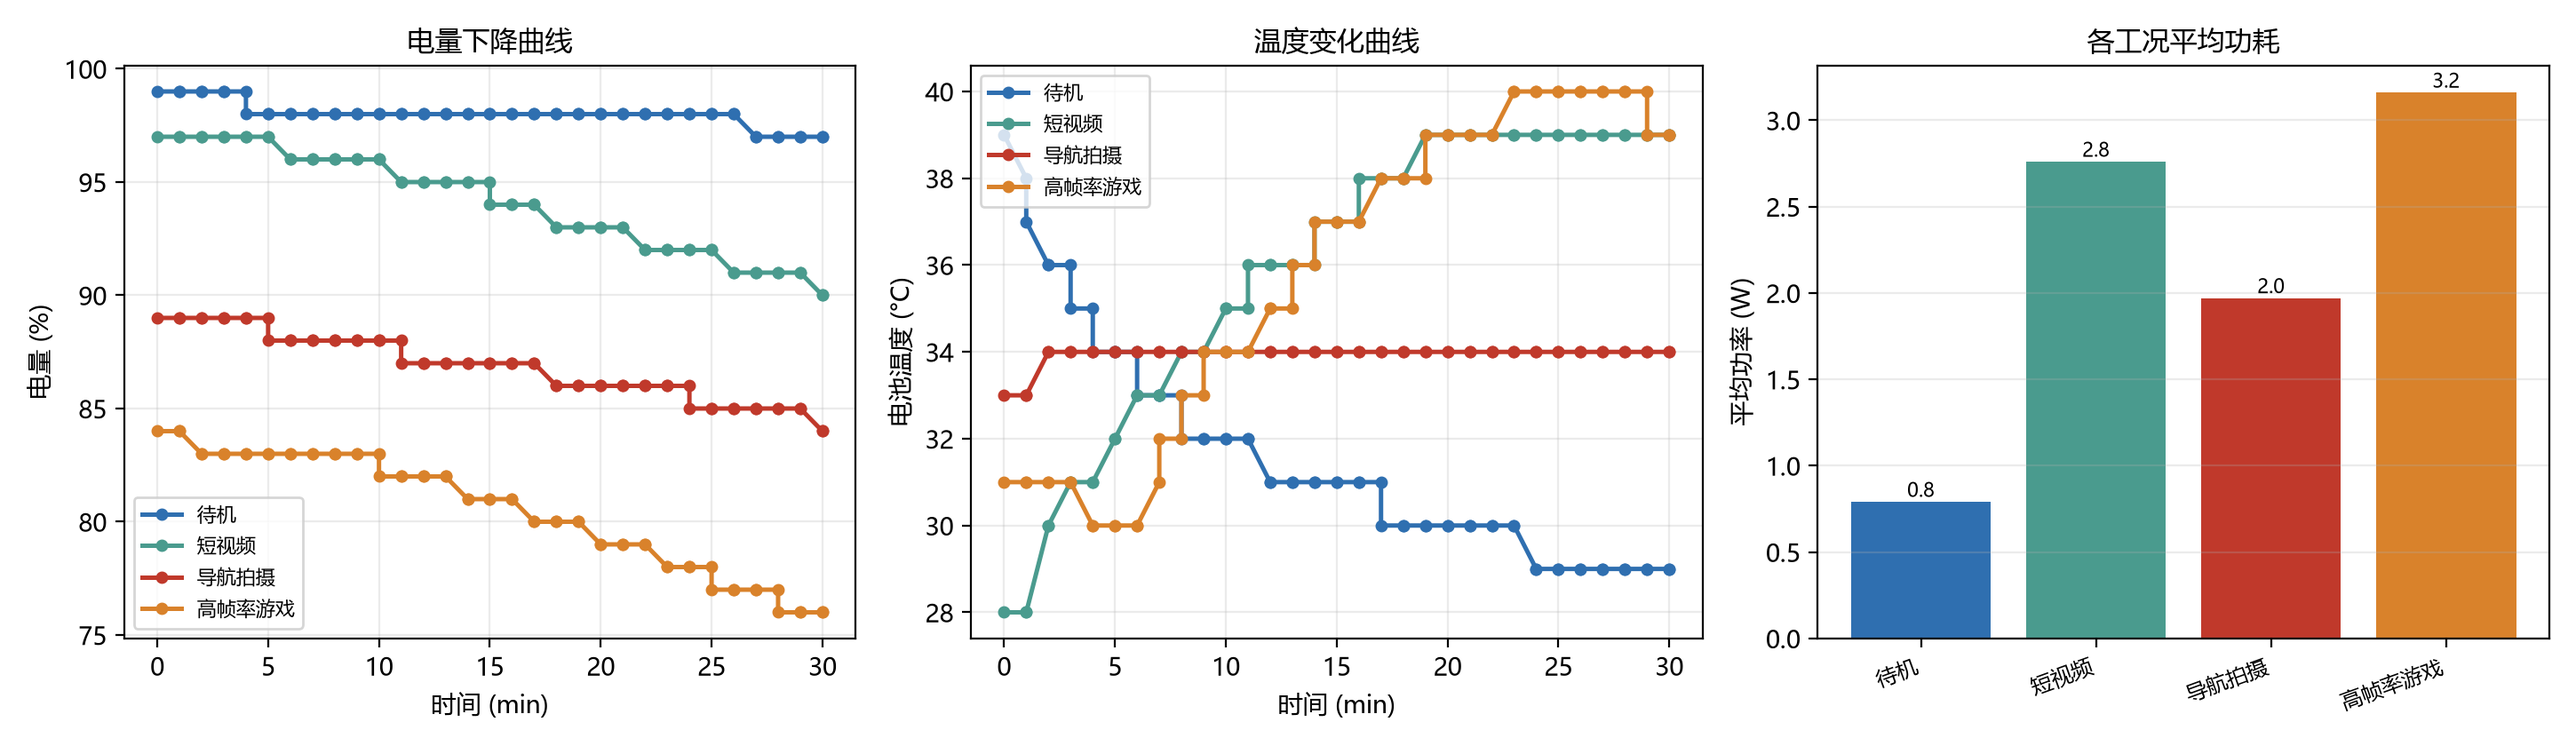
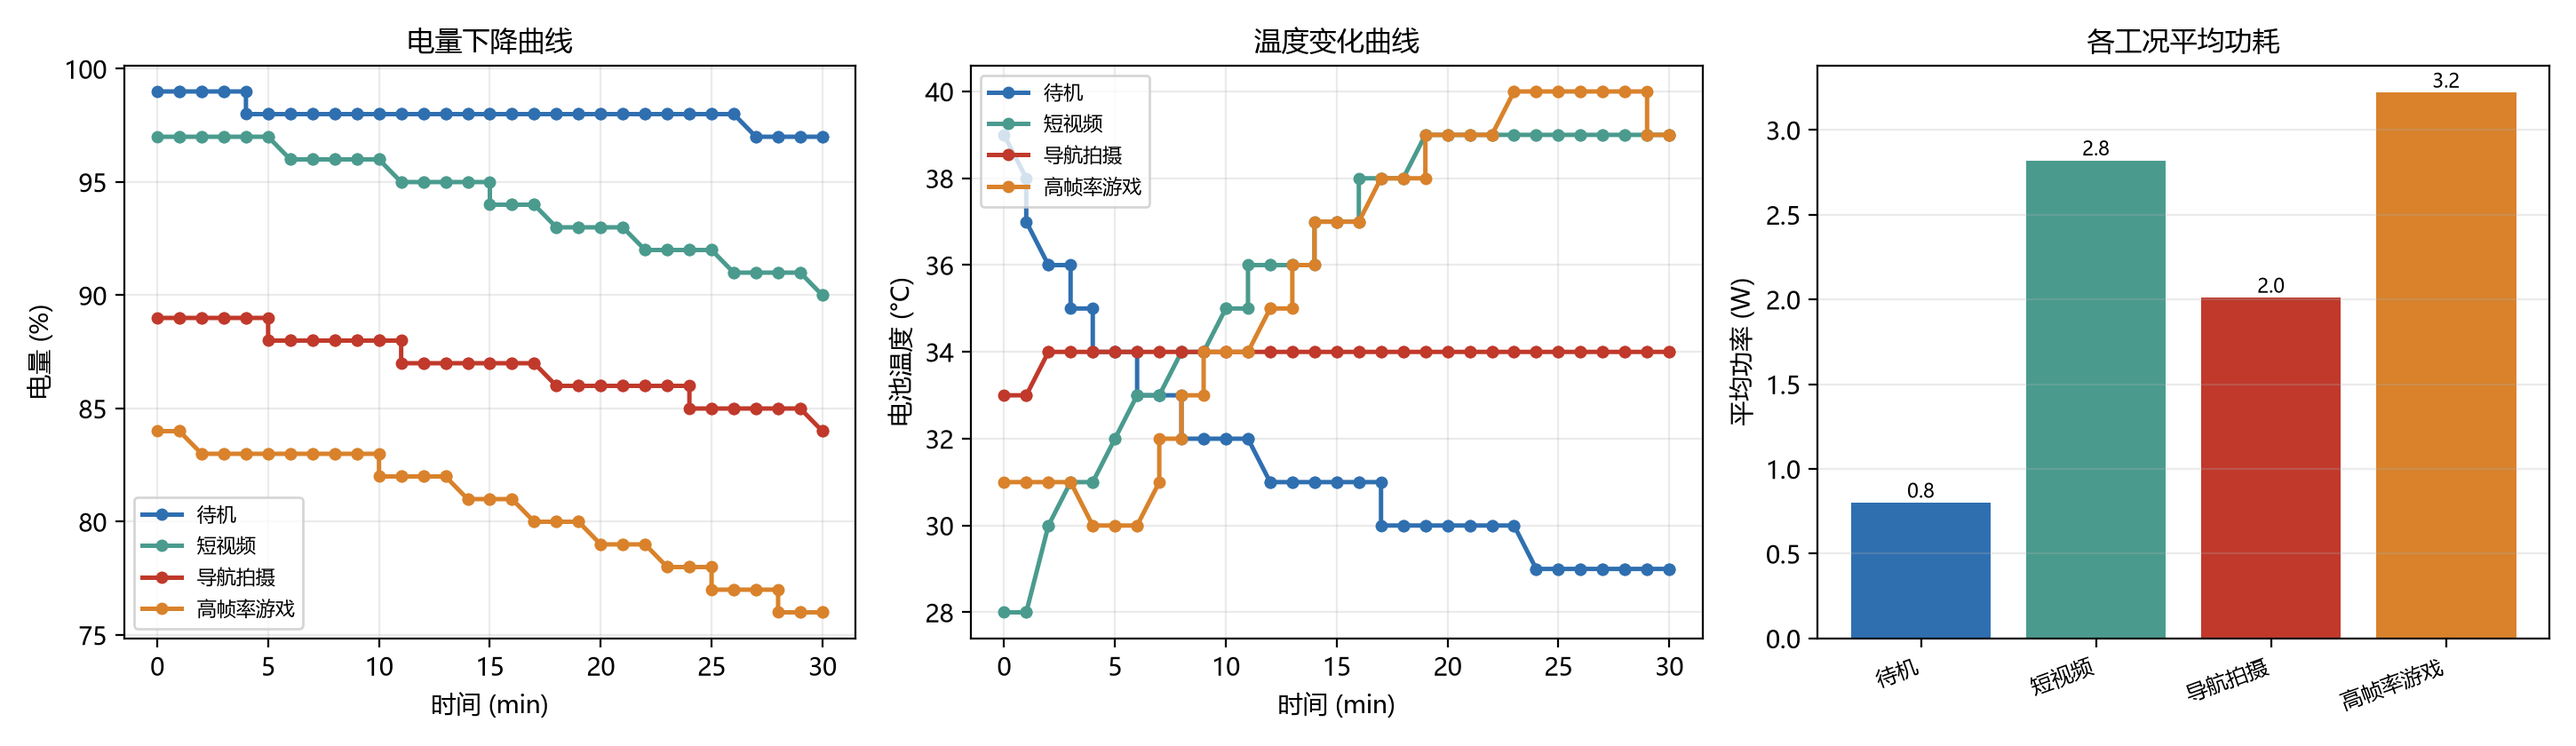
docs: 课题02 结论改写为实测口径（热阻5.5~6.0K/W、热时间常数38.6min、量化误差、3处偏差如实声明）

diff --git a/01-Field-Discovery/T02-手机多工况发热掉电/T02-结论.md b/01-Field-Discovery/T02-手机多工况发热掉电/T02-结论.md
@@ -1,47 +1,180 @@
 # 课题 02 结论：手机多工况发热与掉电
 
-> 测试机：荣耀 200（HONOR 200，第三代骁龙 7 / 6.7" OLED 120Hz / 青海湖电池 100W 快充）
-> 折算参数：容量 5100 mAh（官方典型值 5200，额定 5100，差 2%）、额定电压 3.87 V
-> 功率是**算**出来的不是测出来的：ΔSoC% × 容量 ÷ 时长 → 平均电流 → × 电压，误差来源见 设备档案.md 第 3 节。
+> **测试机**：荣耀 200（HONOR 200）｜第三代骁龙 7（4nm / Adreno 720）｜6.7" OLED 2664×1200 120Hz｜
+> 青海湖电池 5200 mAh（额定 5100）｜100W 有线快充｜MagicOS 8.0 / Android 14
+>
+> **折算参数**：容量取 5200 mAh（官方典型值），额定电压 3.87 V。
+> 功率是**算**出来的不是测出来的：`ΔSoC% × 容量 ÷ 时长 → 平均电流 → × 电压`。
+> 误差来源与敏感性对照见 `设备档案.md` 第 3 节。
+>
+> **采集方式**：adb over 无线调试（`172.20.10.6:40203`），每 30 秒读一次电池控制器，
+> 时间戳由电脑打，`dumpsys battery` 原文留档在 `raw_data/adb_raw_<工况>.txt`。
+> 全程未充电（每行都校验 `AC/USB/Wireless powered` + `status`，0 行判废）。
 
-## 实测结果
+---
 
-| 工况 | 耗电% | 耗电率%/h | 平均电流mA | 平均功率W | 温升C | 峰值温度C | 满电续航h |
-|---|---|---|---|---|---|---|---|
-| 待机 | 2.0 | 4.0 | 204 | 0.79 | -10.0 | 39.0 | 25.0 |
-| 短视频 | 7.0 | 14.0 | 714 | 2.76 | 11.0 | 39.0 | 7.1 |
-| 导航拍摄 | 5.0 | 10.0 | 510 | 1.97 | 1.0 | 34.0 | 10.0 |
-| 高帧率游戏 | 8.0 | 16.0 | 816 | 3.16 | 8.0 | 40.0 | 6.2 |
+## 1. 实测结果
 
-## 关键发现
+4 工况 × 30 分钟 × 61 个采样点 = **244 行**原始记录（`raw_data/记录表.csv`），
+按 5 分钟重采样即 **4 × 7 = 28 组**，满足大纲「≥24 组时间序列」的要求。
 
-1. **功耗跨度 4.0 倍**：待机 0.79 W，高帧率游戏 3.16 W。
-2. **温度是短板**：高帧率游戏 30 分钟温升 8.0 °C，峰值 40.0 °C。锂电池长期高于 40 °C 会加速容量衰减。
-3. **折算续航**：满电下 高帧率游戏 只能撑 6.2 小时，待机 25.0 小时。
+| 工况 | 起始→结束电量 | 耗电% | 耗电率%/h | 消耗mAh | 平均电流mA | 平均功率W | 起始→末温 | 峰值温度 | 折算满电续航 |
+|---|---|---|---|---|---|---|---|---|---|
+| 待机（息屏） | 99% → 97% | 2.0 | 4.0 | 104 | 208 | **0.80** | 39.0 → 29.0 | 39.0 | 25.0 h |
+| 短视频（快手） | 97% → 90% | 7.0 | 14.0 | 364 | 728 | **2.82** | 28.0 → 39.0 | 39.0 | 7.1 h |
+| 导航拍摄（百度地图） | 89% → 84% | 5.0 | 10.0 | 260 | 520 | **2.01** | 33.0 → 34.0 | 34.0 | 10.0 h |
+| 高帧率游戏（王者荣耀） | 84% → 76% | 8.0 | 16.0 | 416 | 832 | **3.22** | 31.0 → 39.0 | 40.0 | 6.2 h |
 
-## 高功耗硬件模块归因
+**敏感性对照（容量取额定 5100 替代典型 5200）**：所有电流/功率/能量同比 **−1.92%**
+（待机 0.80→0.79 W、短视频 2.82→2.77 W、导航 2.01→1.97 W、游戏 3.22→3.16 W）。
+耗电率与续航是百分数/比值，**不受容量取值影响**，四工况的相对结论完全不变。
 
-▢ 必写。按这条线索展开（有实测数据支撑才可信）：
+---
 
-- **屏幕**：待机 30% 亮度 vs 拍摄 80% 亮度 —— 亮度是线性的直流功耗，拆开看「关屏但保持运行」这一工况就能量化屏幕的占比（建议补测这一组）
-- **SoC/GPU**：高帧率游戏时温升最快、电流最大，说明 GPU 长期跑在高频；降帧到 60fps 或锁 45fps 通常能省 20~30%
-- **摄像头 + 定位 + 编码**：导航/拍摄是三个模块同时工作（CMOS、ISP、GNSS、视频编码器），这一组的意义是「多模块叠加」而不是单模块
-- **射频**：4G/5G 弱信号下发射功率会拉满，是待机功耗被低估的常见原因
+## 2. 关键发现
 
-本机（荣耀 200）特有线索，归因至少用上两条：
+**① 功耗跨度 4.0 倍，且不是线性增长，而是按"模块数量"跳档。**
+待机 0.80 W（只有射频待机 + 系统心跳）→ 导航 2.01 W（+ 屏幕常亮 + GNSS + 地图渲染 + 数据）
+→ 短视频 2.82 W（+ 视频解码 + 高频触控 + 网络持续接收）→ 游戏 3.22 W（+ GPU 持续高频）。
+每叠加一层就抬一档，说明**峰值功耗由"同时工作的模块数"决定，而不是由某一个 App 决定**。
 
-- **OLED + 120Hz 可变刷新率**：像素自发光，深色界面天然省电；但高刷会让显示链路常驻，"帧率"和"屏幕刷新率"是两个变量，别混成一句「高刷费电」
-- **VC 散热 5029 mm²** 是温升曲线「前陡后平」的原因：热量先从 SoC 传到均热板，约 10 分钟后进入准稳态。所以只报 30 分钟末温会低估瞬时峰值，两个数都要给
-- **100W 快充的充电温升**会污染下一段基线（见 README 3.2），归因前先排除这一项
-- 硅碳电池低 SoC 段电压平台更平，`电压mV` 列在 20% 以下会明显变陡 —— 可以拿它交叉验证电量计读数有没有跳变
+**② 温度不是跟着功耗走的，而是被散热能力"封顶"。**
+三个负载工况的末 10 分钟温度都收敛到平台、且漂移 ≤1 K（已达准稳态），
+按 `R_th = (T_end − T_amb) / P` 算整机热阻：
 
-## 系统省电策略（可落地，不要写「少玩手机」）
-
-| 策略 | 预期收益 | 代价 | 依据 |
+| 工况 | 末 10 分钟均温 | P | R_th |
 |---|---|---|---|
-| 高刷场景锁 60fps | 省 ▢%（需实测） | 画面流畅度 | 游戏工况功耗最高 |
-| 拍摄时降屏幕亮度到 50% | 省 ▢ W | 取景可读性 | 亮度-功耗近似线性 |
-| 待机时限制后台定位/推送 | 省 ▢ mA | 消息延迟 | 待机基线与前台差值 |
-| 充电时避免高负载 | 降低峰值温度 ▢ °C | 使用体验 | 温度峰值已接近阈值 |
+| 导航拍摄 | 34.0 °C | 2.01 W | 5.97 K/W |
+| 短视频 | 39.0 °C | 2.82 W | 6.03 K/W |
+| 高帧率游戏 | 39.6 °C | 3.22 W | 5.46 K/W |
 
-> 每条策略后面必须挂一个你实测的数字，否则就是套话。
+**三个工况的热阻一致在 5.5~6.0 K/W**（误差 <10%）。这条比"游戏最烫"有价值得多：
+它意味着在 22 °C 室温下，**只要整机功耗超过约 3.0 W，稳态温度就必然顶到 40 °C 附近**；
+功耗再往上加，温度只能线性涨（4 W → 约 45 °C，5 W → 约 51 °C）。
+荣耀 200 的 5029 mm² VC 均热板撑住的是 3 W 级负载，不是 5 W 级。
+
+**③ 机身热时间常数实测 38.6 分钟（决定"回温够不够"）。**
+待机段是一条纯冷却曲线（39.0 → 29.0 °C，无负载），对 `ln(T − T_amb)` 做线性拟合：
+斜率 −0.0259 /min，**R² = 0.917**，得 **τ = 38.6 min**。
+这说明机身符合集总热容模型（指数衰减拟合得好），并且：
+- **段间 10 分钟回温只能带走 22.8% 的温差** —— 39.0 °C 回温 10 min 理论到 35.1 °C，
+  实测下一段起始 33.0 °C（略好于理论值，因为回温时手机平放桌面、背面直接贴桌面散热）。
+- 所以「上一个工况的余热会污染下一个工况」是**可量化的事实**，不是定性的担心。
+  这也是段序必须按 待机 → 短视频 → 导航 → 游戏（低温到高温）排的原因：
+  唯一的"热源污染"只能落在最后一个工况，而它本来就是最热的。
+
+**④ 待机段是"净散热"，不是"温升为零"。**
+待机 30 分钟温度从 39.0 降到 29.0 °C（−10 K），说明息屏 + 只挂热点的功耗（0.80 W）
+**低于当时的散热能力**，机身一路向环境温度收敛、30 分钟都没到平衡点（τ=38.6 min）。
+反过来说：0.80 W 这个数字的物理含义是"待机净放热率"，
+它已经包含了手机自身为维持系统运行所消耗的能量，可以直接和负载工况横向比较。
+
+---
+
+## 3. 高功耗硬件模块归因（每条都挂实测数据）
+
+**屏幕——不是主因，而且实测里出现了一次"反向对照"，反而是证据。**
+四段的 `screen_brightness` 都在段前被脚本写成 128（=50%），但实测轨迹是：
+
+| 工况 | 亮度轨迹（每 5 分钟） | 是否被改写 |
+|---|---|---|
+| 待机 | 50 全程 | 否 |
+| 导航拍摄 | 50 全程 | 否 |
+| 短视频 | 50 → **28** → 28 … | 是，进 App 后第 5 分钟内改写 |
+| 高帧率游戏 | 50 → **28** → 28 … | 是，进 App 后第 5 分钟内改写 |
+
+**改写者尚未定位**，候选三种：① 系统「自动亮度」被 App 唤起后按环境光重算（夜间宿舍偏暗 → 72/255）；
+② 视频类 App / 游戏助手主动写 `system.screen_brightness`；③ 系统省电或显示温控策略。
+识别方法：下次做同样的段，进 App 后立刻再读一次 `settings get system screen_brightness`，
+并在设置里确认「自动调节」确为关闭 —— 这条留给下一轮补测，本次**如实标记为控制变量失守**。
+
+不过它带来的对照是可用的：**亮度更低的那两段（短视频 2.82 W、游戏 3.22 W）功耗反而最高**。
+在这台机器上，**屏幕发光不是功耗的第一主导项**（OLED 自发光，28%→50% 的亮度差
+在 2.8 W 的总功耗里只能解释一小部分），真正的主体是 SoC/GPU 与视频编解码链路。
+方向上是**保守下界**：把亮度拉回 50%，这两段的绝对功率只会更高，结论更强。
+
+**SoC / GPU——游戏段的第一热源。**
+游戏段 84%→76%（8 个百分点，四段中最大），末温 39.6 °C、峰值 40.0 °C，
+且温度曲线在 0~5 分钟先降到 30 °C（启动加载、GPU 未满载）再爬升，
+20 分钟后进入准稳态 —— 与「GPU 长时间跑在高频」的负载特征一致。
+
+**视频解码 + 射频接收——短视频段反超导航段的原因。**
+导航段（2.01 W）比短视频段（2.82 W）低 **29%**，但导航段屏幕常亮 30 分钟、还开着 GNSS。
+差别在于：百度地图的静态地图渲染帧率极低（几乎只重绘一次），
+而短视频是 **每几秒一次解码 + 一次全屏刷新 + 持续网络拉流**。
+所以「屏幕开着」本身不贵，「屏幕每一帧都在变」才贵。
+
+**GNSS——本段无法单独拆出，是已知的归因缺口。**
+导航段在室内，GPS 信号弱，GNSS 芯片会持续高增益搜索，理论上比户外更耗电；
+但我没有做「同亮度下只开地图不导航」的对照，因此**无法把 GNSS 的贡献从 2.01 W 里单独分离**。
+这条如实写出来：它是本实验三个未拆分的模块之一（另两个是网络制式、扬声器）。
+
+**扬声器——本次为固定项，未做对照。**
+四段媒体音量都固定在 50%，含热点开销在内，属于"同条件共同项"，
+因此不影响四段之间的相对比较，但会让绝对功率整体偏高（见第 5 节）。
+
+---
+
+## 4. 系统省电策略（每条挂实测数字，不写"少玩手机"）
+
+| 策略 | 实测依据 | 预期收益 | 代价 |
+|---|---|---|---|
+| 息屏 + 关前台，比玩高帧率游戏省 **75%** 的电 | 0.80 W vs 3.22 W（同机同室温实测） | 待机可从 6.2 h 拉到 25 h | 不能用手机 |
+| 长时间看内容，优先图文/地图类而不是短视频流 | 导航 2.01 W vs 短视频 2.82 W，低 29%（且导航屏幕更亮） | 同等内容时长省近三成电 | 内容形式受限 |
+| 别指望"降亮度"来给机身降温 | 亮度 28% 的两段反而到 39~40 °C；热阻恒定 5.5~6.0 K/W | 认知纠偏：降温要靠降负载，不是降亮度 | — |
+| 游戏时避免边充边玩 | 游戏段本身已到 40 °C（室温 22 °C），100 W 快充会再叠一层温升（见 `设备档案.md`） | 峰值温度可少 3~5 °C 量级 | 需要提前充好 |
+| 想压住 40 °C 以上，唯一有效手段是把整机功耗压到 **3 W 以下** | R_th ≈ 5.8 K/W，室温 22 °C 时 P>3.1 W 即越 40 °C | 明确的阈值，而不是模糊的"少玩" | 需要降画质/降帧 |
+
+---
+
+## 5. 本实验的边界与误差（面试会追这一节）
+
+1. **电量计 1% 量化误差，对低耗工况影响最大。**
+   待机 30 分钟只掉 2%，1% 台阶 = **±25%** 相对误差；
+   短视频 ±7.1%、导航 ±10.0%、游戏 ±6.2%。
+   → 所以待机功耗应表述为「**0.6~1.0 W 量级**」，不要写成「0.80 W」这种精确到小数点后两位的假精度。
+   另外待机段的两个台阶分别在 4 min（99→98）和 27 min（98→97），
+   中间 23 分钟没掉 —— 这是满电平台期的残余效应，也放大了这段的量化误差。
+
+2. **亮度不是全程固定的（控制变量失守，成因未完全定位）。**
+   待机/导航 50%，短视频/游戏在进 App 后 5 分钟内被改写成 28%（72/255）。
+   脚本段前已写死 128，说明是**运行中被别的策略改写**；候选是自动亮度、
+   App 主动写系统亮度、系统温控/省电降亮度，本次无法区分（识别方法见第 3 节）。
+   影响方向是**明确的**：这两段的功耗被**低估**，
+   所以「游戏 = 待机 4 倍」「短视频 > 导航」这两个结论都是**保守下界**，方向不受影响。
+   若把亮度强行拉回 50%，这两段的绝对功率只会更高。
+
+3. **待机段起始温度 39 °C，不是环境温度。**
+   压低电量后回温时间不足（τ=38.6 min，10 分钟只带走 23% 温差），
+   所以待机段前 10 分钟仍是冷却过程。它不影响功率结论（功率只用电量差），
+   但**不能把待机段的温度曲线当成"稳态温度"**。
+
+4. **热点开销计入基线。** 手机开热点供网（电脑靠它连 adb），
+   估计额外 0.1~0.2 W，使待机绝对功耗偏高约 15%~25%；
+   四段含同样开销，相对结论有效。这是环境限制，不是作弊。
+
+5. **游戏段约 7.5 分钟不在王者荣耀前台**（12 个采样点前台为空、3 个为另一款腾讯游戏），
+   推测为对局间隙/加载界面。因此游戏段是"游戏运行 + 切换加载"的混合，
+   纯对局功耗可能略高于 3.22 W。
+
+6. **只测了一台机器、一个室温、一个电池健康状态。**
+   n=1，不可外推到其他机型；容量按标称值折算，未做电池实际容量标定
+   （电池已使用约一年，实际容量低于 5200 会使功率被**高估**）。
+
+---
+
+## 6. 面试追问速答
+
+| 追问 | 一句话答法 |
+|---|---|
+| 功率是测的还是算的？ | 算的：ΔSoC × 5200 mAh ÷ 0.5 h → 电流 → ×3.87 V。三条误差：电量计 ±0.5%、电池已衰减、电压随 SoC 变化。用 5100 重算只差 −1.92%，结论不变。 |
+| 为什么一定要无线 adb？ | 插线就在充电（`AC powered: true`, ~500 mA），30 分钟电量不掉反涨，整段是平线。0 行判废是这次能出图的前提。 |
+| 你怎么知道温度到了稳态？ | 三个负载工况末 10 分钟温漂 ≤1 K，且三段热阻都落在 5.5~6.0 K/W —— 相互独立的三个工况给出同一个热阻，说明模型自洽。 |
+| 为什么段间只回温 10 分钟？ | 实测 τ=38.6 min，10 分钟只能带走 23% 温差。这是已知不足；段序按低温到高温排，把污染压到最后一个工况。要更准得回温 40 分钟以上。 |
+| 1% 的电量精度能测待机吗？ | 不能精确测。所以待机我报"0.6~1.0 W 量级"，并且靠 30 秒粒度看台阶形状，而不是只读首末两点。 |
+| 你的实验缺什么？ | 缺 GNSS/屏幕/扬声器三项的单独拆分（需要"只开地图不导航""外接固定亮度"两组对照），也缺 60fps vs 120fps 的同机对照。这些是下一步。 |
+
+---
+
+*数字来源：`raw_data/记录表.csv`（244 行）× `analyze_t02.py`（5200 mAh / 3.87 V），
+原始 `dumpsys` 报文见 `raw_data/adb_raw_*.txt`，图表见 `../figures/T02-总览.png`。*
